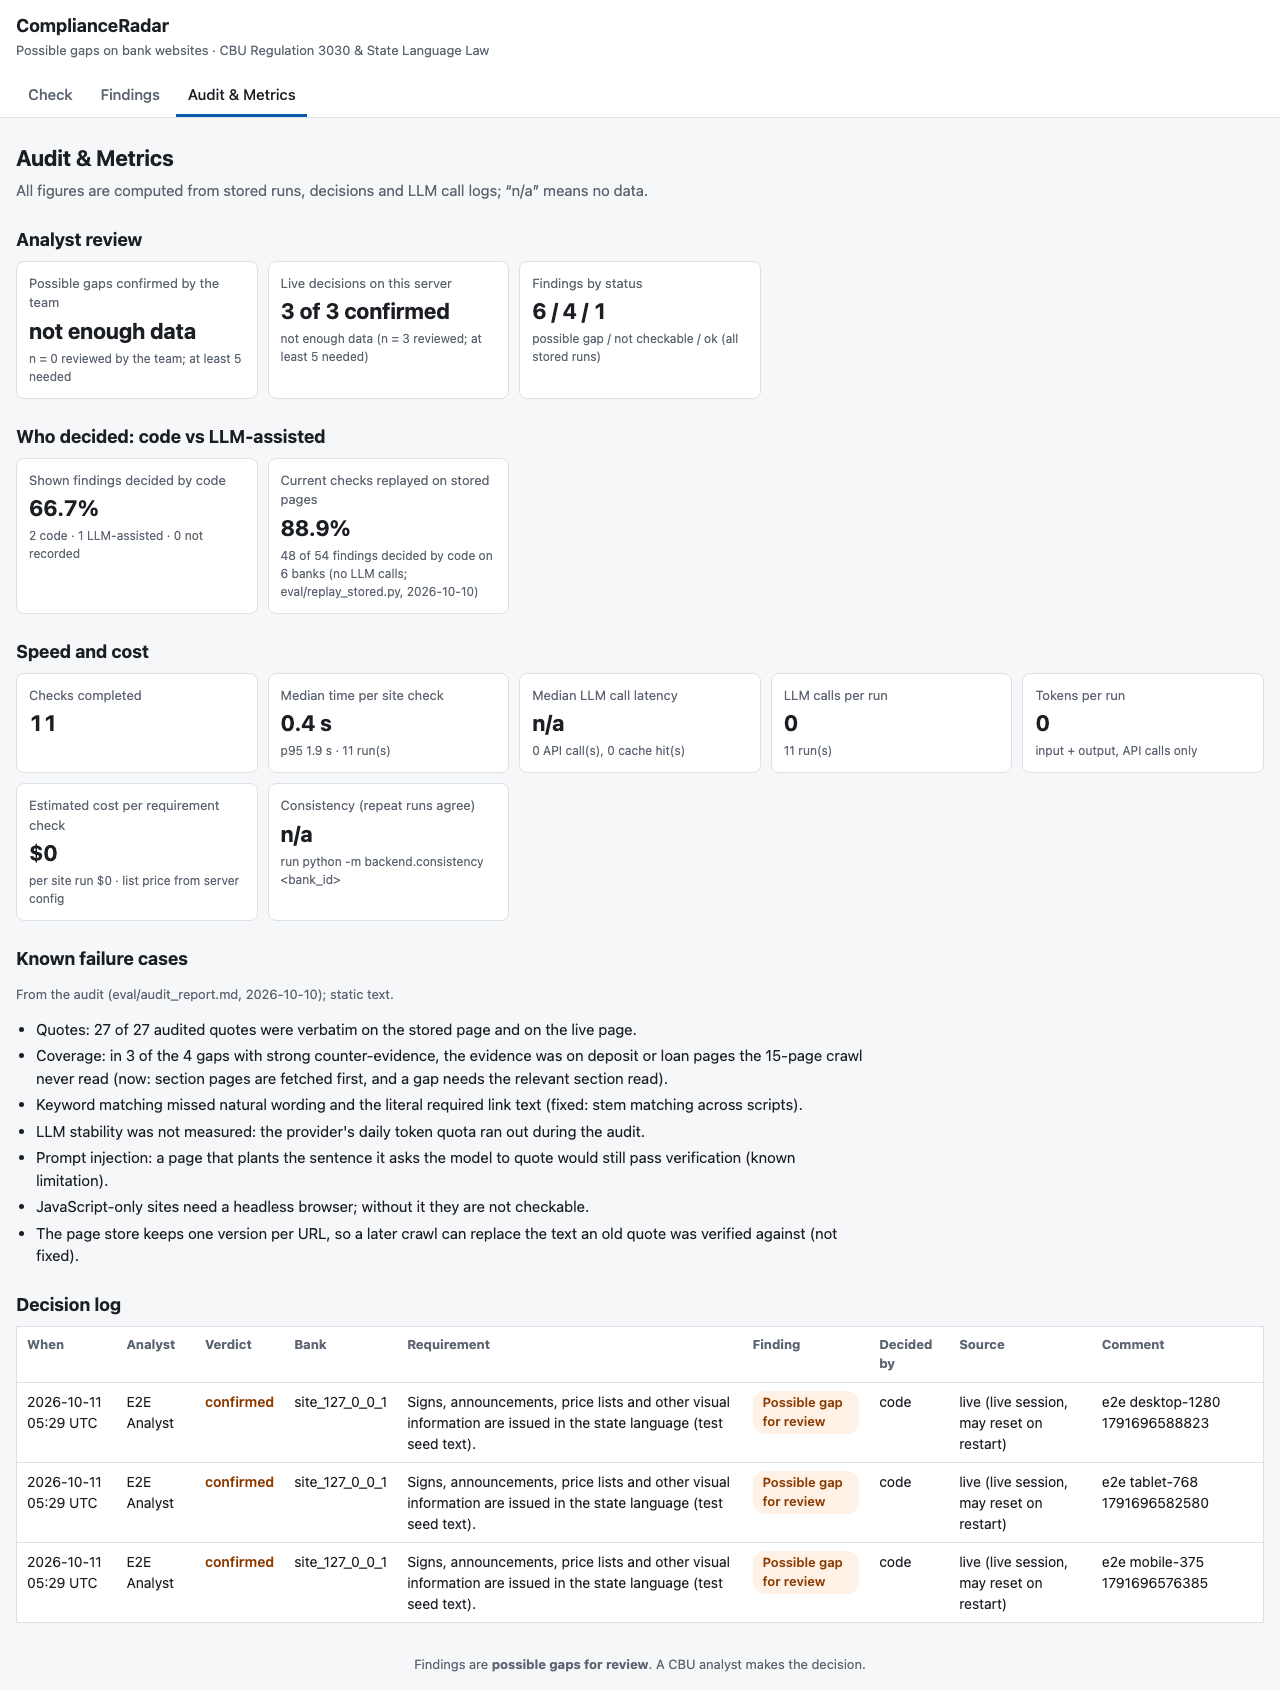
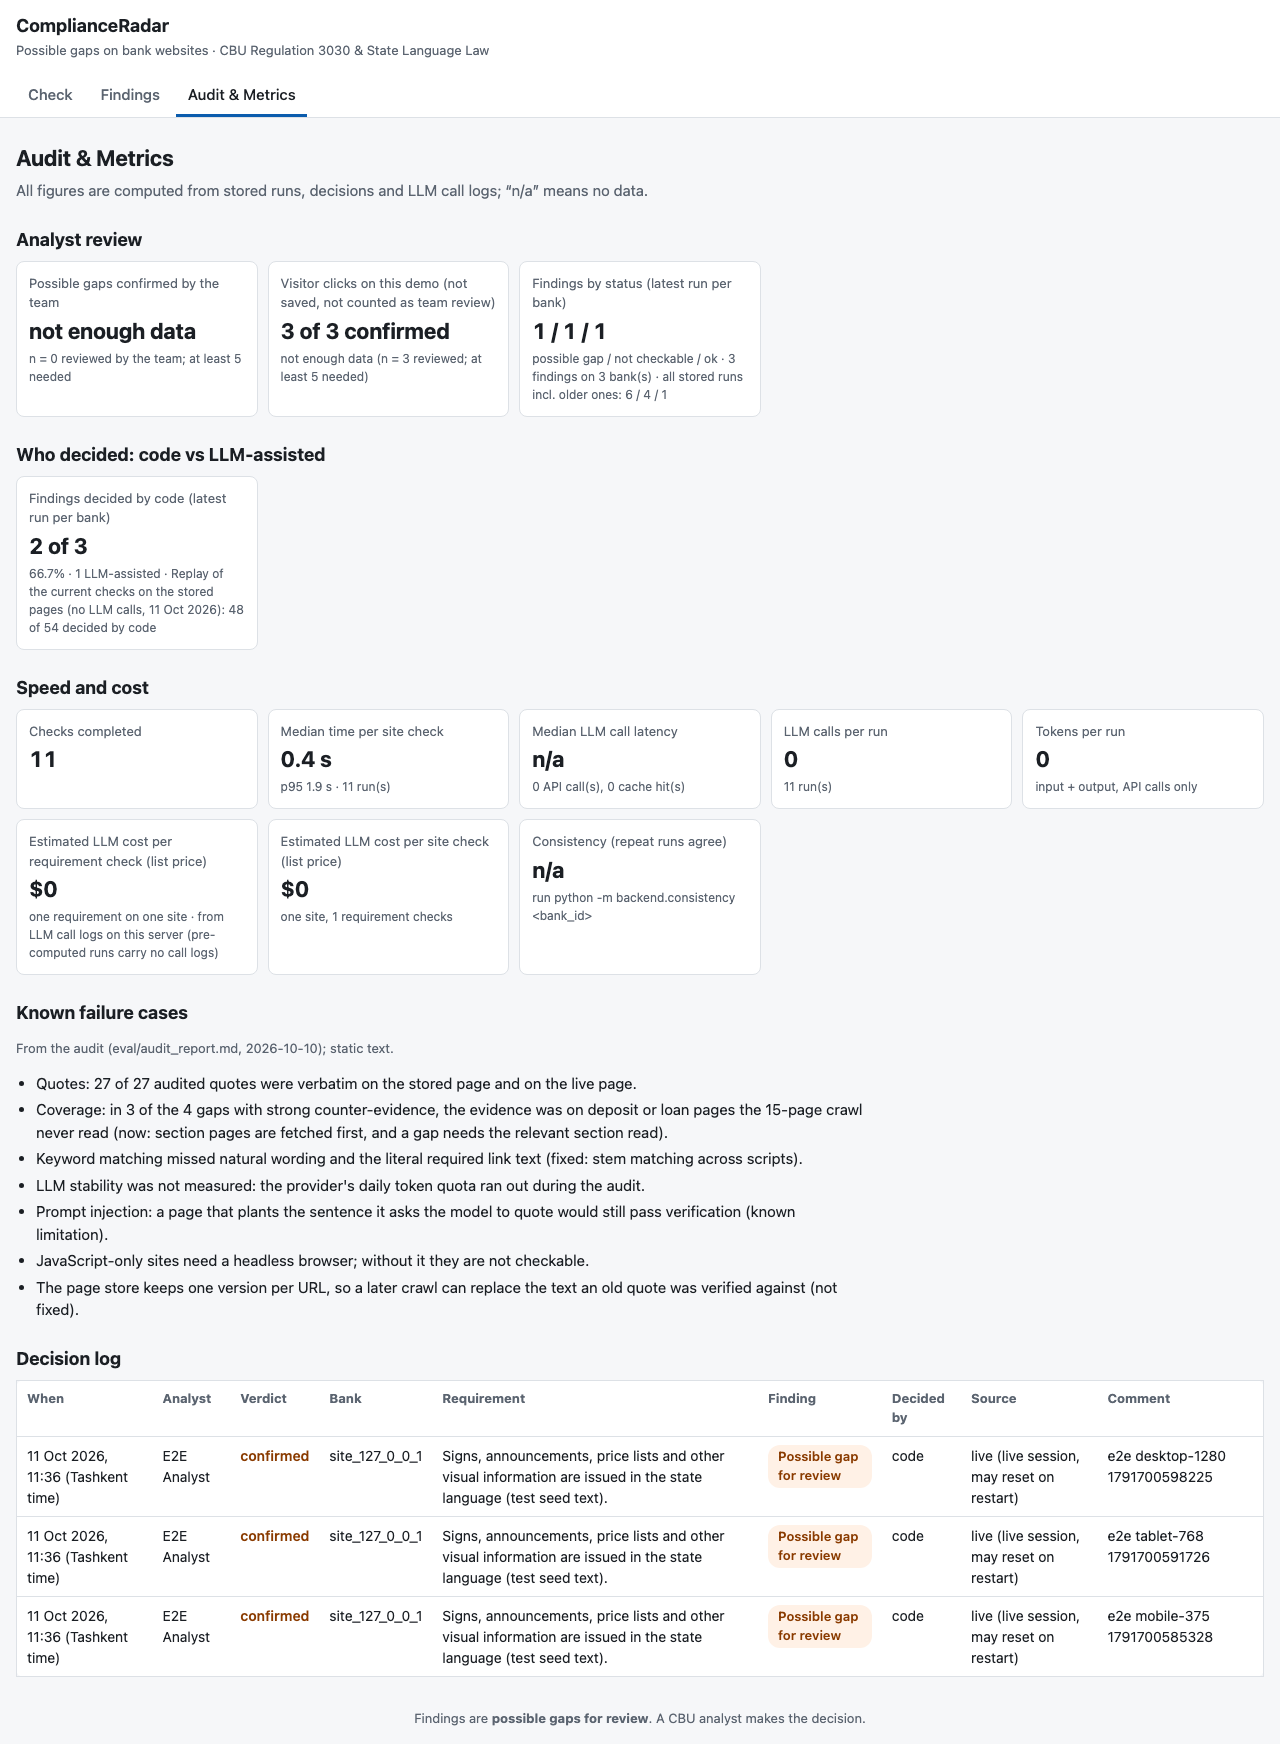
fix(ui): audit labels and counts from the latest run per bank; all times in Tashkent time
Findings by status and decided-by headline use each bank's latest run; replay figure moved
to the small text; cost per requirement check and per site check, both at list price;
visitor-click tile renamed. Dates formatted with Intl.DateTimeFormat (Asia/Tashkent, en-GB)
regardless of the browser timezone; stored and exported values stay UTC.

diff --git a/frontend/src/pages/AuditPage.jsx b/frontend/src/pages/AuditPage.jsx
@@ -1,5 +1,5 @@
 import { useEffect, useState } from "react";
-import { api, formatTime } from "../api.js";
+import { api, formatDate, formatTime } from "../api.js";
 import { Notice, StatusBadge } from "../components/Findings.jsx";
 
 function fmt(v, unit = "") {
@@ -47,6 +47,10 @@ function Metrics({ m }) {
   const u = m.llm_usage;
   const c = m.consistency;
   const n = a.decided;
+  const lt = m.findings_by_status_latest;
+  const all = m.findings_by_status;
+  const noCalls = !u.api_calls && !u.cache_hits;
+  const checksPerSite = u.runs && u.checks ? Math.round((u.checks / u.runs) * 10) / 10 : null;
   return (
     <>
       <h2>Analyst review</h2>
@@ -54,28 +58,30 @@ function Metrics({ m }) {
         <Stat testid="team-precision" label="Possible gaps confirmed by the team"
               value={t.n >= t.min_reviewed ? `${t.confirmed} of ${t.n} confirmed` : "not enough data"}
               note={t.n >= t.min_reviewed
-                ? `reviewed by team on ${t.reviewed_on} (n = ${t.n}; data/precomputed/decisions.json)`
+                ? `reviewed by team on ${formatDate(t.reviewed_at || t.reviewed_on)} (n = ${t.n}; data/precomputed/decisions.json)`
                 : `n = ${t.n} reviewed by the team; at least ${t.min_reviewed} needed`} />
-        <Stat testid="precision" label="Live decisions on this server"
+        <Stat testid="precision" label="Visitor clicks on this demo (not saved, not counted as team review)"
               value={n ? `${a.confirmed} of ${n} confirmed` : "n/a"}
               note={n < MIN_REVIEWED
                 ? `not enough data (n = ${n} reviewed; at least ${MIN_REVIEWED} needed)`
                 : `n = ${n} reviewed possible gaps · ${typeof a.value === "number" ? `precision ${pct(a.value)}` : a.value}`} />
-        <Stat label="Findings by status"
-              value={`${m.findings_by_status.possible_gap} / ${m.findings_by_status.not_checkable} / ${m.findings_by_status.ok}`}
-              note="possible gap / not checkable / ok (all stored runs)" />
+        <Stat testid="by-status" label="Findings by status (latest run per bank)"
+              value={`${lt.possible_gap} / ${lt.not_checkable} / ${lt.ok}`}
+              note={`possible gap / not checkable / ok · ${lt.findings} findings on ${lt.banks} bank(s) · all stored runs incl. older ones: ${all.possible_gap} / ${all.not_checkable} / ${all.ok}`} />
       </div>
 
       <h2>Who decided: code vs LLM-assisted</h2>
       <div className="stats" data-testid="decided-split">
-        <Stat label="Shown findings decided by code" value={pct(d.share_code)}
-              note={d.recorded
-                ? `${d.code} code · ${d.llm_assisted} LLM-assisted · ${d.not_recorded} not recorded`
-                : `n/a: the ${d.not_recorded} shown finding(s) were stored before this was recorded`} />
-        <Stat label="Current checks replayed on stored pages" value={pct(r.share_code)}
-              note={r.findings
-                ? `${r.decided_by.code} of ${r.findings} findings decided by code on ${r.banks} banks (no LLM calls; eval/replay_stored.py, ${String(r.generated_at).slice(0, 10)})`
-                : "n/a: replay not run"} />
+        <Stat testid="decided-by-code" label="Findings decided by code (latest run per bank)"
+              value={d.recorded ? `${d.code} of ${d.code + d.llm_assisted + d.not_recorded}` : "n/a"}
+              note={[
+                d.recorded
+                  ? `${pct(d.share_code)} · ${d.llm_assisted} LLM-assisted${d.not_recorded ? ` · ${d.not_recorded} not recorded` : ""}`
+                  : `the ${d.not_recorded} shown finding(s) were stored before this was recorded`,
+                r.findings
+                  ? `Replay of the current checks on the stored pages (no LLM calls, ${formatDate(r.generated_at)}): ${r.decided_by.code} of ${r.findings} decided by code`
+                  : "Replay: not run",
+              ].join(" · ")} />
       </div>
 
       <h2>Speed and cost</h2>
@@ -87,8 +93,10 @@ function Metrics({ m }) {
               note={`${u.api_calls ?? 0} API call(s), ${u.cache_hits ?? 0} cache hit(s)`} />
         <Stat label="LLM calls per run" value={fmt(u.calls_per_run)} note={`${u.runs} run(s)`} />
         <Stat label="Tokens per run" value={fmt(u.tokens_per_run)} note="input + output, API calls only" />
-        <Stat label="Estimated cost per requirement check" value={usd(u.cost_usd_per_check)}
-              note={`per site run ${usd(u.cost_usd_per_run)} · list price from server config`} />
+        <Stat label="Estimated LLM cost per requirement check (list price)" value={usd(u.cost_usd_per_check)}
+              note={`one requirement on one site · from LLM call logs on this server${noCalls ? " (pre-computed runs carry no call logs)" : ""}`} />
+        <Stat label="Estimated LLM cost per site check (list price)" value={usd(u.cost_usd_per_run)}
+              note={checksPerSite ? `one site, ${checksPerSite} requirement checks` : "no data"} />
         <Stat label="Consistency (repeat runs agree)" value={pct(c.value)}
               note={c.requirements ? `${c.requirements} requirement(s) on ${c.banks} bank(s)` : c.detail} />
       </div>

diff --git a/frontend/e2e/app.spec.js b/frontend/e2e/app.spec.js
@@ -144,6 +144,19 @@ test("stored cards: ok keeps its quote, not checkable shows only a short reason"
   await expect(ncEv.getByTestId("nc-reason")).not.toContainText("re-checked");
 });
 
+test("times are shown in Tashkent time whatever the browser timezone", async ({ browser }) => {
+  // The seeded stored run finished at 2026-10-10 12:00 UTC = 17:00 in Tashkent (UTC+5).
+  for (const timezoneId of ["America/New_York", "Asia/Tokyo"]) {
+    const ctx = await browser.newContext({ timezoneId });
+    const page = await ctx.newPage();
+    await page.goto("/#/findings");
+    const row = page.getByTestId("finding-row").filter({ hasText: "e2e_ok_bank" });
+    await expect(row).toContainText("pre-computed on 10 Oct 2026, 17:00 (Tashkent time)");
+    await expect(row).not.toContainText("UTC");
+    await ctx.close();
+  }
+});
+
 test("decision persists after reload and appears in the audit log", async ({ page, request }, testInfo) => {
   // Make sure a stored finding exists (independent of test order).
   const start = await request.post(`${API}/check`, { data: { url: SITE } });
@@ -177,6 +190,10 @@ test("decision persists after reload and appears in the audit log", async ({ pag
   await expect(page.getByTestId("team-precision")).toContainText("not enough data");
   await expect(page.getByTestId("decision-log")).toContainText("live session, may reset on restart");
   await expect(page.getByTestId("decided-split")).toContainText("decided by code");
+  await expect(page.getByTestId("by-status")).toContainText("latest run per bank");
+  await expect(page.getByTestId("precision")).toContainText("Visitor clicks on this demo");
+  // Times are shown in Tashkent time, e.g. "11 Oct 2026, 10:42 (Tashkent time)".
+  await expect(page.getByTestId("decision-log")).toContainText(/\d{1,2} [A-Z][a-z]{2} \d{4}, \d{2}:\d{2} \(Tashkent time\)/);
   await expect(page.getByTestId("known-failures")).toContainText("Prompt injection");
   await noHorizontalScroll(page);
   await shot(page, testInfo, "audit");

diff --git a/frontend/src/api.js b/frontend/src/api.js
@@ -52,9 +52,32 @@ export const api = {
   metrics: () => request("/metrics"),
 };
 
-export function formatTime(iso) {
-  if (!iso) return "no data";
+// Every date in the UI is shown in Uzbekistan time, whatever the viewer's browser timezone;
+// stored and exported values stay in UTC.
+const TZ = "Asia/Tashkent";
+const DATE_TIME = new Intl.DateTimeFormat("en-GB", {
+  timeZone: TZ, day: "numeric", month: "short", year: "numeric",
+  hour: "2-digit", minute: "2-digit", hourCycle: "h23",
+});
+const DATE_ONLY = new Intl.DateTimeFormat("en-GB", {
+  timeZone: TZ, day: "numeric", month: "short", year: "numeric",
+});
+
+function parse(iso) {
+  if (!iso || iso === "no data") return null;
   const d = new Date(iso);
-  if (Number.isNaN(d.getTime())) return iso;
-  return d.toISOString().replace("T", " ").slice(0, 16) + " UTC";
+  return Number.isNaN(d.getTime()) ? null : d;
+}
+
+// "11 Oct 2026, 10:42 (Tashkent time)"
+export function formatTime(iso) {
+  const d = parse(iso);
+  if (!d) return iso || "no data";
+  return `${DATE_TIME.format(d)} (Tashkent time)`;
+}
+
+// "11 Oct 2026" (the date in Tashkent)
+export function formatDate(iso) {
+  const d = parse(iso);
+  return d ? DATE_ONLY.format(d) : iso || "no data";
 }

diff --git a/frontend/src/components/Findings.jsx b/frontend/src/components/Findings.jsx
@@ -113,7 +113,7 @@ function DecisionBox({ finding, analyst, onDecided }) {
       {decision && (
         <p className={`decided decided-${decision.verdict}`} data-testid="decision-state">
           {decision.verdict === "confirmed" ? "Confirmed" : "Rejected"} by {decision.analyst}
-          {" · "}{formatTime(decision.decided_at)}
+          {" on "}{formatTime(decision.decided_at)}
           {decision.source === "team" ? <span className="decided-src"> · team review</span> : null}
           {decision.storage_note ? <span className="decided-src" data-testid="storage-note"> · {decision.storage_note}</span> : null}
           {decision.comment ? <span className="decided-comment">“{decision.comment}”</span> : null}

diff --git a/backend/metrics.py b/backend/metrics.py
@@ -94,8 +94,11 @@ def team_review(conn: sqlite3.Connection) -> dict:
     n = len(latest)
     confirmed = sum(r["verdict"] == "confirmed" for r in latest.values())
     reviewed_on = max((r["decided_at"][:10] for r in latest.values()), default=None)
+    reviewed_at = max((r["decided_at"] for r in latest.values()), default=None)
     out = {"n": n, "confirmed": confirmed, "rejected": n - confirmed,
-           "reviewed_on": reviewed_on or NO_DATA, "min_reviewed": TEAM_MIN_REVIEWED}
+           "reviewed_on": reviewed_on or NO_DATA,  # UTC date
+           "reviewed_at": reviewed_at or NO_DATA,  # UTC timestamp (the UI shows local time)
+           "min_reviewed": TEAM_MIN_REVIEWED}
     if n < TEAM_MIN_REVIEWED:
         return {**out, "label": "not enough data",
                 "detail": f"n = {n} possible gap(s) reviewed by the team"}
@@ -229,6 +232,13 @@ def compute(conn: sqlite3.Connection, labels_path: Path = LABELS_PATH) -> dict:
     status_counts = {s: 0 for s in ("ok", "possible_gap", "not_checkable")}
     for r in conn.execute("SELECT status, COUNT(*) AS n FROM findings GROUP BY status"):
         status_counts[r["status"]] = r["n"]
+    # What the Findings screen shows: each bank's latest run only.
+    latest_counts = {s: 0 for s in ("ok", "possible_gap", "not_checkable")}
+    for r in conn.execute(f"SELECT status, COUNT(*) AS n FROM findings WHERE run_id IN "
+                          f"({LATEST_RUNS}) GROUP BY status"):
+        latest_counts[r["status"]] = r["n"]
+    latest_banks = conn.execute(f"SELECT COUNT(DISTINCT bank_id) AS n FROM runs WHERE id IN "
+                                f"({LATEST_RUNS})").fetchone()["n"]
 
     return {
         "checks_completed": n,
@@ -244,7 +254,9 @@ def compute(conn: sqlite3.Connection, labels_path: Path = LABELS_PATH) -> dict:
         "precision_possible_gap_vs_labels": label_precision(conn, labels_path),
         "precision_possible_gap_from_decisions": decision_precision(conn),
         "consistency": consistency(conn),
-        "findings_by_status": status_counts,
+        "findings_by_status": status_counts,  # all stored runs
+        "findings_by_status_latest": {**latest_counts, "banks": latest_banks,
+                                      "findings": sum(latest_counts.values())},
         "team_review": team_review(conn),
         "decided_by": decided_by(conn),
         "decided_by_replay": replay_summary(),

diff --git a/backend/tests/test_metrics_latest.py b/backend/tests/test_metrics_latest.py
@@ -1,0 +1,28 @@
+"""Findings by status on the Audit screen: each bank's latest run, not all stored runs."""
+
+from datetime import datetime, timedelta, timezone
+
+from backend import db, metrics
+from backend.models import Finding, Requirement, Run
+
+
+def test_findings_by_status_latest_counts_only_the_latest_run_per_bank(tmp_db):
+    t0 = datetime(2026, 10, 10, tzinfo=timezone.utc)
+    with db.connect() as conn:
+        db.upsert_requirement(conn, Requirement(
+            id="req:x", text_original="x", text_en="x", source_doc="law_state_language",
+            source_clause_id="law_state_language:art:20", source_url="https://lex.uz/x",
+            check_type="uz_version", approved=True))
+        for rid, bank, when, status in [("old", "a", t0, "possible_gap"),
+                                        ("new", "a", t0 + timedelta(hours=1), "ok"),
+                                        ("b1", "b", t0, "not_checkable")]:
+            db.upsert_run(conn, Run(id=rid, bank_id=bank, start_url=f"https://{bank}.example/",
+                                    source="batch", status="done", started_at=when,
+                                    finished_at=when))
+            db.upsert_finding(conn, Finding(
+                id=f"{rid}:req:x", bank_id=bank, requirement_id="req:x", status=status,
+                run_id=rid, reason="r", pages_read=1, urls_read=[], created_at=when))
+        m = metrics.compute(conn)
+    assert m["findings_by_status"] == {"ok": 1, "possible_gap": 1, "not_checkable": 1}
+    assert m["findings_by_status_latest"] == {"ok": 1, "possible_gap": 0, "not_checkable": 1,
+                                              "banks": 2, "findings": 2}
